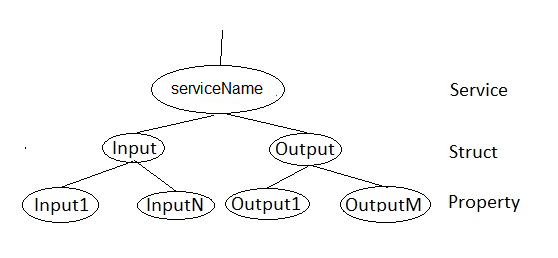
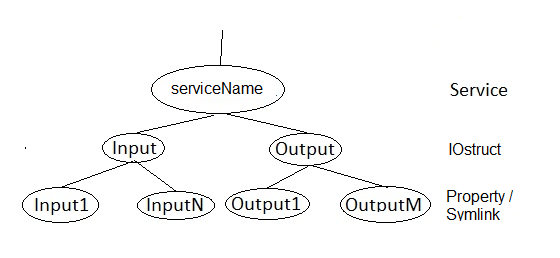
Support for referencing external tree node from service input/output.

diff --git a/docs-gen/content/service_data_rule_set/symlink.md b/docs-gen/content/service_data_rule_set/symlink.md
@@ -1,0 +1,45 @@
+---
+title: "Symlink node"
+date: 2019-08-04T12:37:03+02:00
+weight: 30
+---
+
+Data represented by the node type `symlink` have a relationship to any other data having the same `iostruct` parent in that they are all representing either
+Input parameters or Output parameters of the service that they are linked to.
+
+An Otput parameter declared as a symlink will lead to that the returned value is read from that data point. 
+
+An Input parameter declared as a symlink will lead to that the provided input value is written to that data point.
+
+Nodes of the type `symlink` must have the following mandatory metadata:
+- Name
+- Type
+- Path
+- Domain
+- Version
+- Description
+
+The Path must be a valid path to a leaf node in the tree declared by the Domain and Version metadata.
+
+The Domain must declare an existing HIM tree of information type resourcedata.
+
+The Version must be a dot delimited triplet declaring a version of the tree eclared by the Domain.
+The triplet may a suffix of either "+" or "-", denoting that also any following or previous versions are also valid.
+
+Besides the mandatory metadata mentioned above, the following optional metadata may be used
+- Comment
+
+For more information, please see the [Common Rule Set: Optional Metadata](/hierarchical_information_model/common_rule_set/basics#optional-metadata).
+
+This node type must have a node of type `iostruct` as parent, and must not have any children.
+
+An example of the specification of a `symlink` node is given below.
+
+```YAML
+VehicleService.GPS.GetPosition.Output.Latitude:
+  type: symlink
+  path: Vehicle.CurrentLocation.Latitude
+  domain: Automotive.Vehicle.Car.ResourceData
+  version: 3.0.0+
+  description: This is a symlink to a VSS tree.
+```

diff --git a/docs-gen/content/common_rule_set/node_types/property.md b/docs-gen/content/common_rule_set/node_types/property.md
@@ -4,34 +4,10 @@ date: 2019-08-04T12:37:03+02:00
 weight: 30
 ---
 
-Data represented by the node type `property` have a relationship to any other data having the same `struct` parent in that they are all sampled in an "atomic" operation,
-i.e. the set of data points have the same timestamp representing the sample time.
+The `property` node type is used in both the `service` and `typedefinition` rule sets,
+but as they differ slightly on the semantics in respective rule set it has a separate definition in each of the rule sets,
+please see their definitions in the 
+[Service Rule Set:Property node node type](/hierarchical_information_model/service_data_rule_set/property) and the
+[Type Definition Rule Set:Property node node type](/hierarchical_information_model/type_definition_rule_set/property)
+respectively.
 
-Nodes of the type `property` must have the following mandatory metadata:
-- Name
-- Type
-- Datatype
-- Description
-
-For more information, see the [Common Rule Set: Mandatory Metadata](/hierarchical_information_model/common_rule_set/basics#mandatory-metadata).
-
-Besides the mandatory metadata mentioned above, the following optional metadata may be used
-- Unit
-- Min
-- Max
-- Allowed
-- Comment
-
-For more information, please see the [Common Rule Set: Optional Metadata](/hierarchical_information_model/common_rule_set/basics#optional-metadata).
-
-This node type must have a node of type `struct` as parent, and must not have any children.
-
-An example of the specification of a `property` node is given below.
-
-```YAML
-Type.OpenHours.Open:
-  datatype: uint8
-  type: property
-  max: 24
-  description: Time the address opens
-```

diff --git a/docs-gen/content/service_data_rule_set/iostruct.md b/docs-gen/content/service_data_rule_set/iostruct.md
@@ -1,0 +1,37 @@
+---
+title: "IO-struct node"
+date: 2019-08-04T12:37:03+02:00
+weight: 30
+---
+
+An `iostruct` node type may be used to encapsulate multiple data points that have the relationship that they are all representing either
+Input parameters or Output parameters of the service that they are linked to.
+
+This node type is only allowed in trees of the information type `servicedata`.
+For more information, please see respective parts of this document.
+
+An `iostruct` node must have one of the two names `Input` or `Output`.
+
+Nodes of the type `iostruct` must have the following mandatory metadata:
+- Name
+- Type
+- Description
+
+For more information, see the [Common Rule Set: Mandatory Metadata](/hierarchical_information_model/common_rule_set/basics#mandatory-metadata).
+
+Besides the mandatory metadata mentioned above, the following optional metadata may be used
+- Comment
+
+For more information, please see the [Common Rule Set: Optional Metadata](/hierarchical_information_model/common_rule_set/basics#optional-metadata).
+
+- A leaf node cannot have the `iostruct` node type.
+- A parent must be of the node type `service`.
+- Children must be of the node types `property` or `symlink`.
+- It must have at least one child.
+
+An example of the specification of a `struct` node is given below.
+```YAML
+Input:
+  type: iostruct
+  description: This is an iostruct node representing Input parameters of a service.
+```

diff --git a/docs-gen/content/service_data_rule_set/service.md b/docs-gen/content/service_data_rule_set/service.md
@@ -17,11 +17,11 @@ Besides the mandatory metadata mentioned above, the following optional metadata 
 For more information, please see the [Common Rule Set: Optional Metadata](/hierarchical_information_model/common_rule_set/basics#optional-metadata).
 
 - A parent must be of the node type `branch`.
-- Children, if any, must be of the node type `struct`.
+- Children, if any, must be of the node type `iostruct`.
 
 An example of the specification of a `service` node is given below.
 ```YAML
-NodeName:
+ServiceName:
   type: service
   description: This is a service node containing its mandatory metadata.
 ```
@@ -30,3 +30,11 @@ NodeName:
 
 A `service` node has a mandatory datatype of uint8. As it cannot be set to any other datatype than uint8,
 the datatype metadata shall not be explicitly shown in the node.
+The main purpose of the state information is to provide a "percentage" state of the execution to clients.
+
+The service must set i to zero (0) at the beginning of the execution, and it must set it to hundred (100) at the end of a successful execution.
+It may further update it one or more times during the execution.
+
+If an error occurs during execution the state shall be set to one of the predefined error values.
+This error value is not replacing either a service specific error value which the service may return as an Output parameter,
+nor with the error value that a transport protocol may report.

diff --git a/docs-gen/content/service_data_rule_set/property.md b/docs-gen/content/service_data_rule_set/property.md
@@ -1,0 +1,37 @@
+---
+title: "Property node"
+date: 2019-08-04T12:37:03+02:00
+weight: 30
+---
+
+Data represented by the node type `property` have a relationship to any other data having the same `struct` parent in that they are all sampled in an "atomic" operation,
+i.e. the set of data points have the same timestamp representing the sample time.
+
+Nodes of the type `property` must have the following mandatory metadata:
+- Name
+- Type
+- Datatype
+- Description
+
+For more information, see the [Common Rule Set: Mandatory Metadata](/hierarchical_information_model/common_rule_set/basics#mandatory-metadata).
+
+Besides the mandatory metadata mentioned above, the following optional metadata may be used
+- Unit
+- Min
+- Max
+- Allowed
+- Comment
+
+For more information, please see the [Common Rule Set: Optional Metadata](/hierarchical_information_model/common_rule_set/basics#optional-metadata).
+
+This node type must have a node of type `struct` as parent, and must not have any children.
+
+An example of the specification of a `property` node is given below.
+
+```YAML
+Type.OpenHours.Open:
+  datatype: uint8
+  type: property
+  max: 24
+  description: Time the address opens
+```

diff --git a/docs-gen/content/type_definition_rule_set/property.md b/docs-gen/content/type_definition_rule_set/property.md
@@ -1,0 +1,37 @@
+---
+title: "Property node"
+date: 2019-08-04T12:37:03+02:00
+weight: 30
+---
+
+Data represented by the node type `property` have a relationship to any other data having the same `struct` parent in that they are all sampled in an "atomic" operation,
+i.e. the set of data points have the same timestamp representing the sample time.
+
+Nodes of the type `property` must have the following mandatory metadata:
+- Name
+- Type
+- Datatype
+- Description
+
+For more information, see the [Common Rule Set: Mandatory Metadata](/hierarchical_information_model/common_rule_set/basics#mandatory-metadata).
+
+Besides the mandatory metadata mentioned above, the following optional metadata may be used
+- Unit
+- Min
+- Max
+- Allowed
+- Comment
+
+For more information, please see the [Common Rule Set: Optional Metadata](/hierarchical_information_model/common_rule_set/basics#optional-metadata).
+
+This node type must have a node of type `struct` as parent, and must not have any children.
+
+An example of the specification of a `property` node is given below.
+
+```YAML
+Type.OpenHours.Open:
+  datatype: uint8
+  type: property
+  max: 24
+  description: Time the address opens
+```

diff --git a/docs-gen/content/service_data_rule_set/basics.md b/docs-gen/content/service_data_rule_set/basics.md
@@ -24,8 +24,8 @@ The general structure of how service data is represented in a HIM tree is shown 
 *Figure x. HIM service data graph representation
 
 - The name of the procedure is the name of the node of `service` type.
-- The input and output parameters are respectively represented by a  node of type `struct` that must have the names 'Input' and 'Output', respectively.
-- An input/output parameter is represented by a node of type `property`.
+- The input and output parameters are respectively represented by a  node of type `iostruct` that must have the names 'Input' and 'Output', respectively.
+- An input/output parameter is represented by a node of type `property` or `symlink`.
 
 Any Input/Output nodes, and their associated children, are only present if the procedure has at least one parameter of the respective Input/Output.
 

diff --git a/docs-gen/content/service_data_rule_set/_index.md b/docs-gen/content/service_data_rule_set/_index.md
@@ -6,5 +6,5 @@ chapter: true
 
 # HIM Service Data Rule Set
 
-The rules that are specific for the information type `service_data` is described in this part of the document,
+The rules that are specific for the information type `servicedata` is described in this part of the document,
 and together with the rules in the [Common rule set part](/hierarchical_information_model/common_rule_set) it forms the overall rules for this information type.
